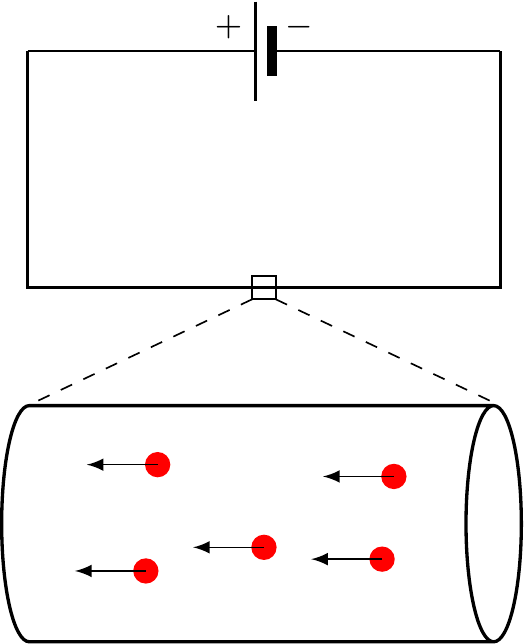
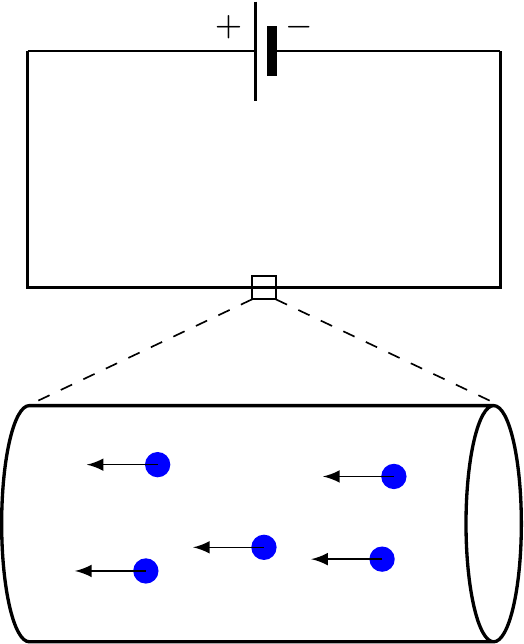
change color of electrons to blue

diff --git a/electrodynamics/drude/drude.tex b/electrodynamics/drude/drude.tex
@@ -25,7 +25,7 @@
     \node[thick] (A) at (-0.2,0) [cylinder, aspect=2, shape border rotate=0, draw, minimum height=4.4cm, minimum width=2cm] {};
     % charges
     \foreach \x/\y in { -1/-0.4,-0.9/0.5,0/-0.2,1.1/0.4,1/-0.3 } {%
-      \draw[fill,red] (\x,\y)  circle (0.1) coordinate (t);
+      \draw[fill,blue] (\x,\y)  circle (0.1) coordinate (t);
       \draw[->] (t) -- ++(-0.6,0);
     }
   \end{scope}

diff --git a/electrodynamics/drude/drude_inverted.tex b/electrodynamics/drude/drude_inverted.tex
@@ -34,7 +34,7 @@
     \node[thick] (A) at (-0.2,0) [cylinder, aspect=2, shape border rotate=0, draw, minimum height=4.4cm, minimum width=2cm] {};
     % charges
     \foreach \x/\y in { -1/-0.4,-0.9/0.5,0/-0.2,1.1/0.4,1/-0.3 } {%
-      \draw[fill,red] (\x,\y)  circle (0.1) coordinate (t);
+      \draw[fill,blue] (\x,\y)  circle (0.1) coordinate (t);
       \draw[->] (t) -- ++(-0.6,0);
     }
   \end{scope}

diff --git a/electrodynamics.md b/electrodynamics.md
@@ -255,7 +255,7 @@
     \node[thick] (A) at (-0.2,0) [cylinder, aspect=2, shape border rotate=0, draw, minimum height=4.4cm, minimum width=2cm] {};
     % charges
     \foreach \x/\y in { -1/-0.4,-0.9/0.5,0/-0.2,1.1/0.4,1/-0.3 } {%
-      \draw[fill,red] (\x,\y)  circle (0.1) coordinate (t);
+      \draw[fill,blue] (\x,\y)  circle (0.1) coordinate (t);
       \draw[->] (t) -- ++(-0.6,0);
     }
   \end{scope}
@@ -1117,7 +1117,7 @@
     \node[thick] (A) at (-0.2,0) [cylinder, aspect=2, shape border rotate=0, draw, minimum height=4.4cm, minimum width=2cm] {};
     % charges
     \foreach \x/\y in { -1/-0.4,-0.9/0.5,0/-0.2,1.1/0.4,1/-0.3 } {%
-      \draw[fill,red] (\x,\y)  circle (0.1) coordinate (t);
+      \draw[fill,blue] (\x,\y)  circle (0.1) coordinate (t);
       \draw[->] (t) -- ++(-0.6,0);
     }
   \end{scope}
